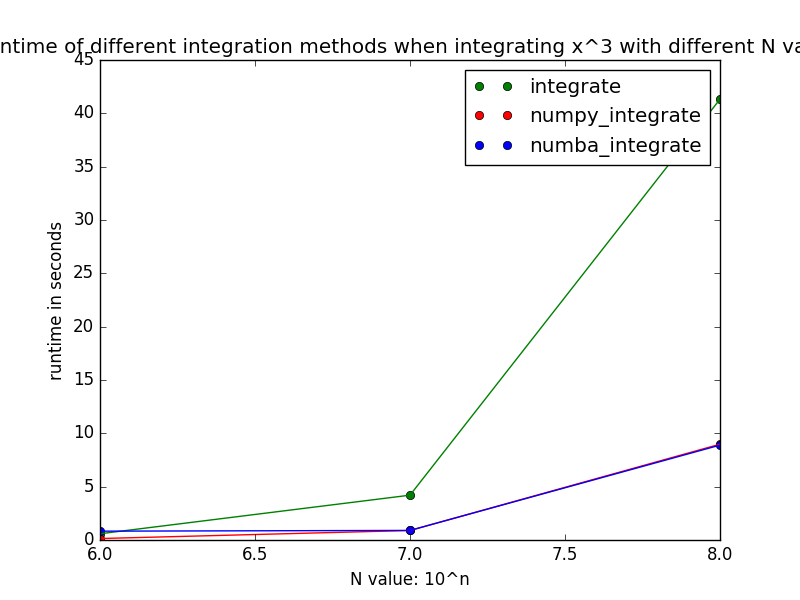
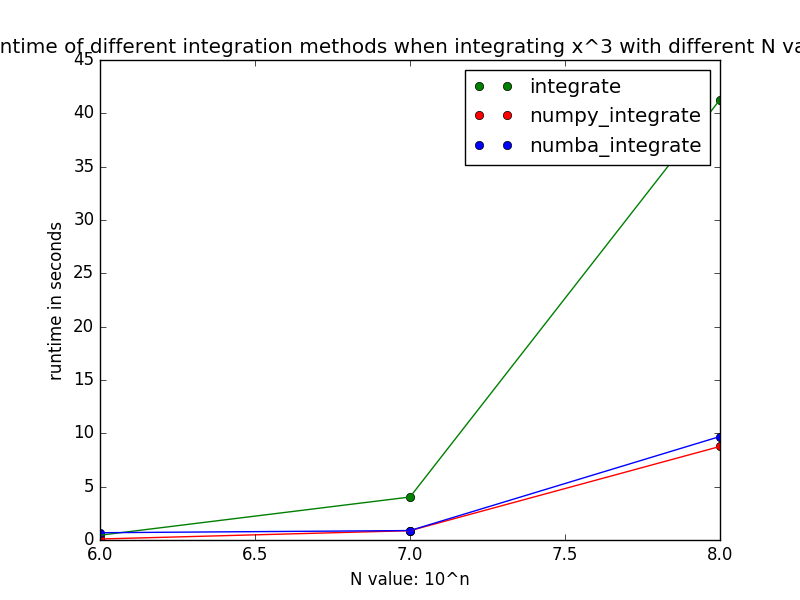
updated assignment3 - removed some files

diff --git a/assignment4/integrator_comparison.py b/assignment4/integrator_comparison.py
@@ -3,21 +3,18 @@ from integrator import midpoint_integrate
 from numpy_integrator import numpy_midpoint_integrate
 from numba_integrator import numba_midpoint_integrate
 
-N = 10**(7)
-"""
-jump=10**(6)
-for n in range(100, N, jump):
+N = 10**(10)
+jump=10**(9)
+for n in range(100, N, 100):
     I = midpoint_integrate(sin, 0, pi, n)
-    print(I)
     if abs(I - 2.0) < 10**(-10):
         print("N needs to be at least %d to have an error less than 10^(-10) \nwhen integrating with midpoint_integrate" % (n))
         break
     else:
         if n >= N-jump:
             print("Didn't find a large enough N")
-"""
 
-for n in range(128200, N, 1):
+for n in range(100, N, 100):
     I = numpy_midpoint_integrate(sin, 0, pi, n)
     if abs(I - 2.0) < 10**(-10):
         print("N needs to be at least %d to have an error less than 10^(-10) \nwhen integrating with numpy_midpoint_integrate" % (n))
@@ -27,7 +24,7 @@ for n in range(128200, N, 1):
         if n >= N-1:
             print("Didn't find a large enough N")
 
-for n in range(128200, N, 1):
+for n in range(100, N, 100):
     I = numba_midpoint_integrate(sin, 0, pi, n)
     if abs(I - 2.0) < 10**(-10):
         print("N needs to be at least %d to have an error less than 10^(-10) \nwhen integrating with numba_midpoint_integrate" % (n))

diff --git a/assignment4/integrating_time.py b/assignment4/integrating_time.py
@@ -69,6 +69,7 @@ numba_integr.append(runtime)
 print("numba_integrate() took %s seconds to integrate x^3 from 0 to 1 with N=100000000" % (runtime))
 
 N_values = [6, 7, 8]
+plt.gcf().clear() #Clear any previous plots
 plt.plot(N_values, integr, "go")
 plt.plot(N_values, numpy_integr, "ro")
 plt.plot(N_values, numba_integr, "bo")

diff --git a/assignment4/test_integrator.py b/assignment4/test_integrator.py
@@ -9,6 +9,11 @@ f1 = vectorize(f1)
 
 def f2(x):  #Linear function
     return x*2.0
+
+"""
+NOTE: I tested the integration method for an error of 1E-10 instead
+of 1E-20. Why was so high accuracy needed? Takes forever with high N
+"""
     
 
 #TEST integrate

diff --git a/assignment4/integrator.py b/assignment4/integrator.py
@@ -45,4 +45,4 @@ plt.xlabel("N")
 plt.ylabel("error")
 plt.title("Error when integrating f(x)=x^2 for different values of N")
 plt.savefig("quadratic_error.png")
-plt.show()
+#plt.show()
